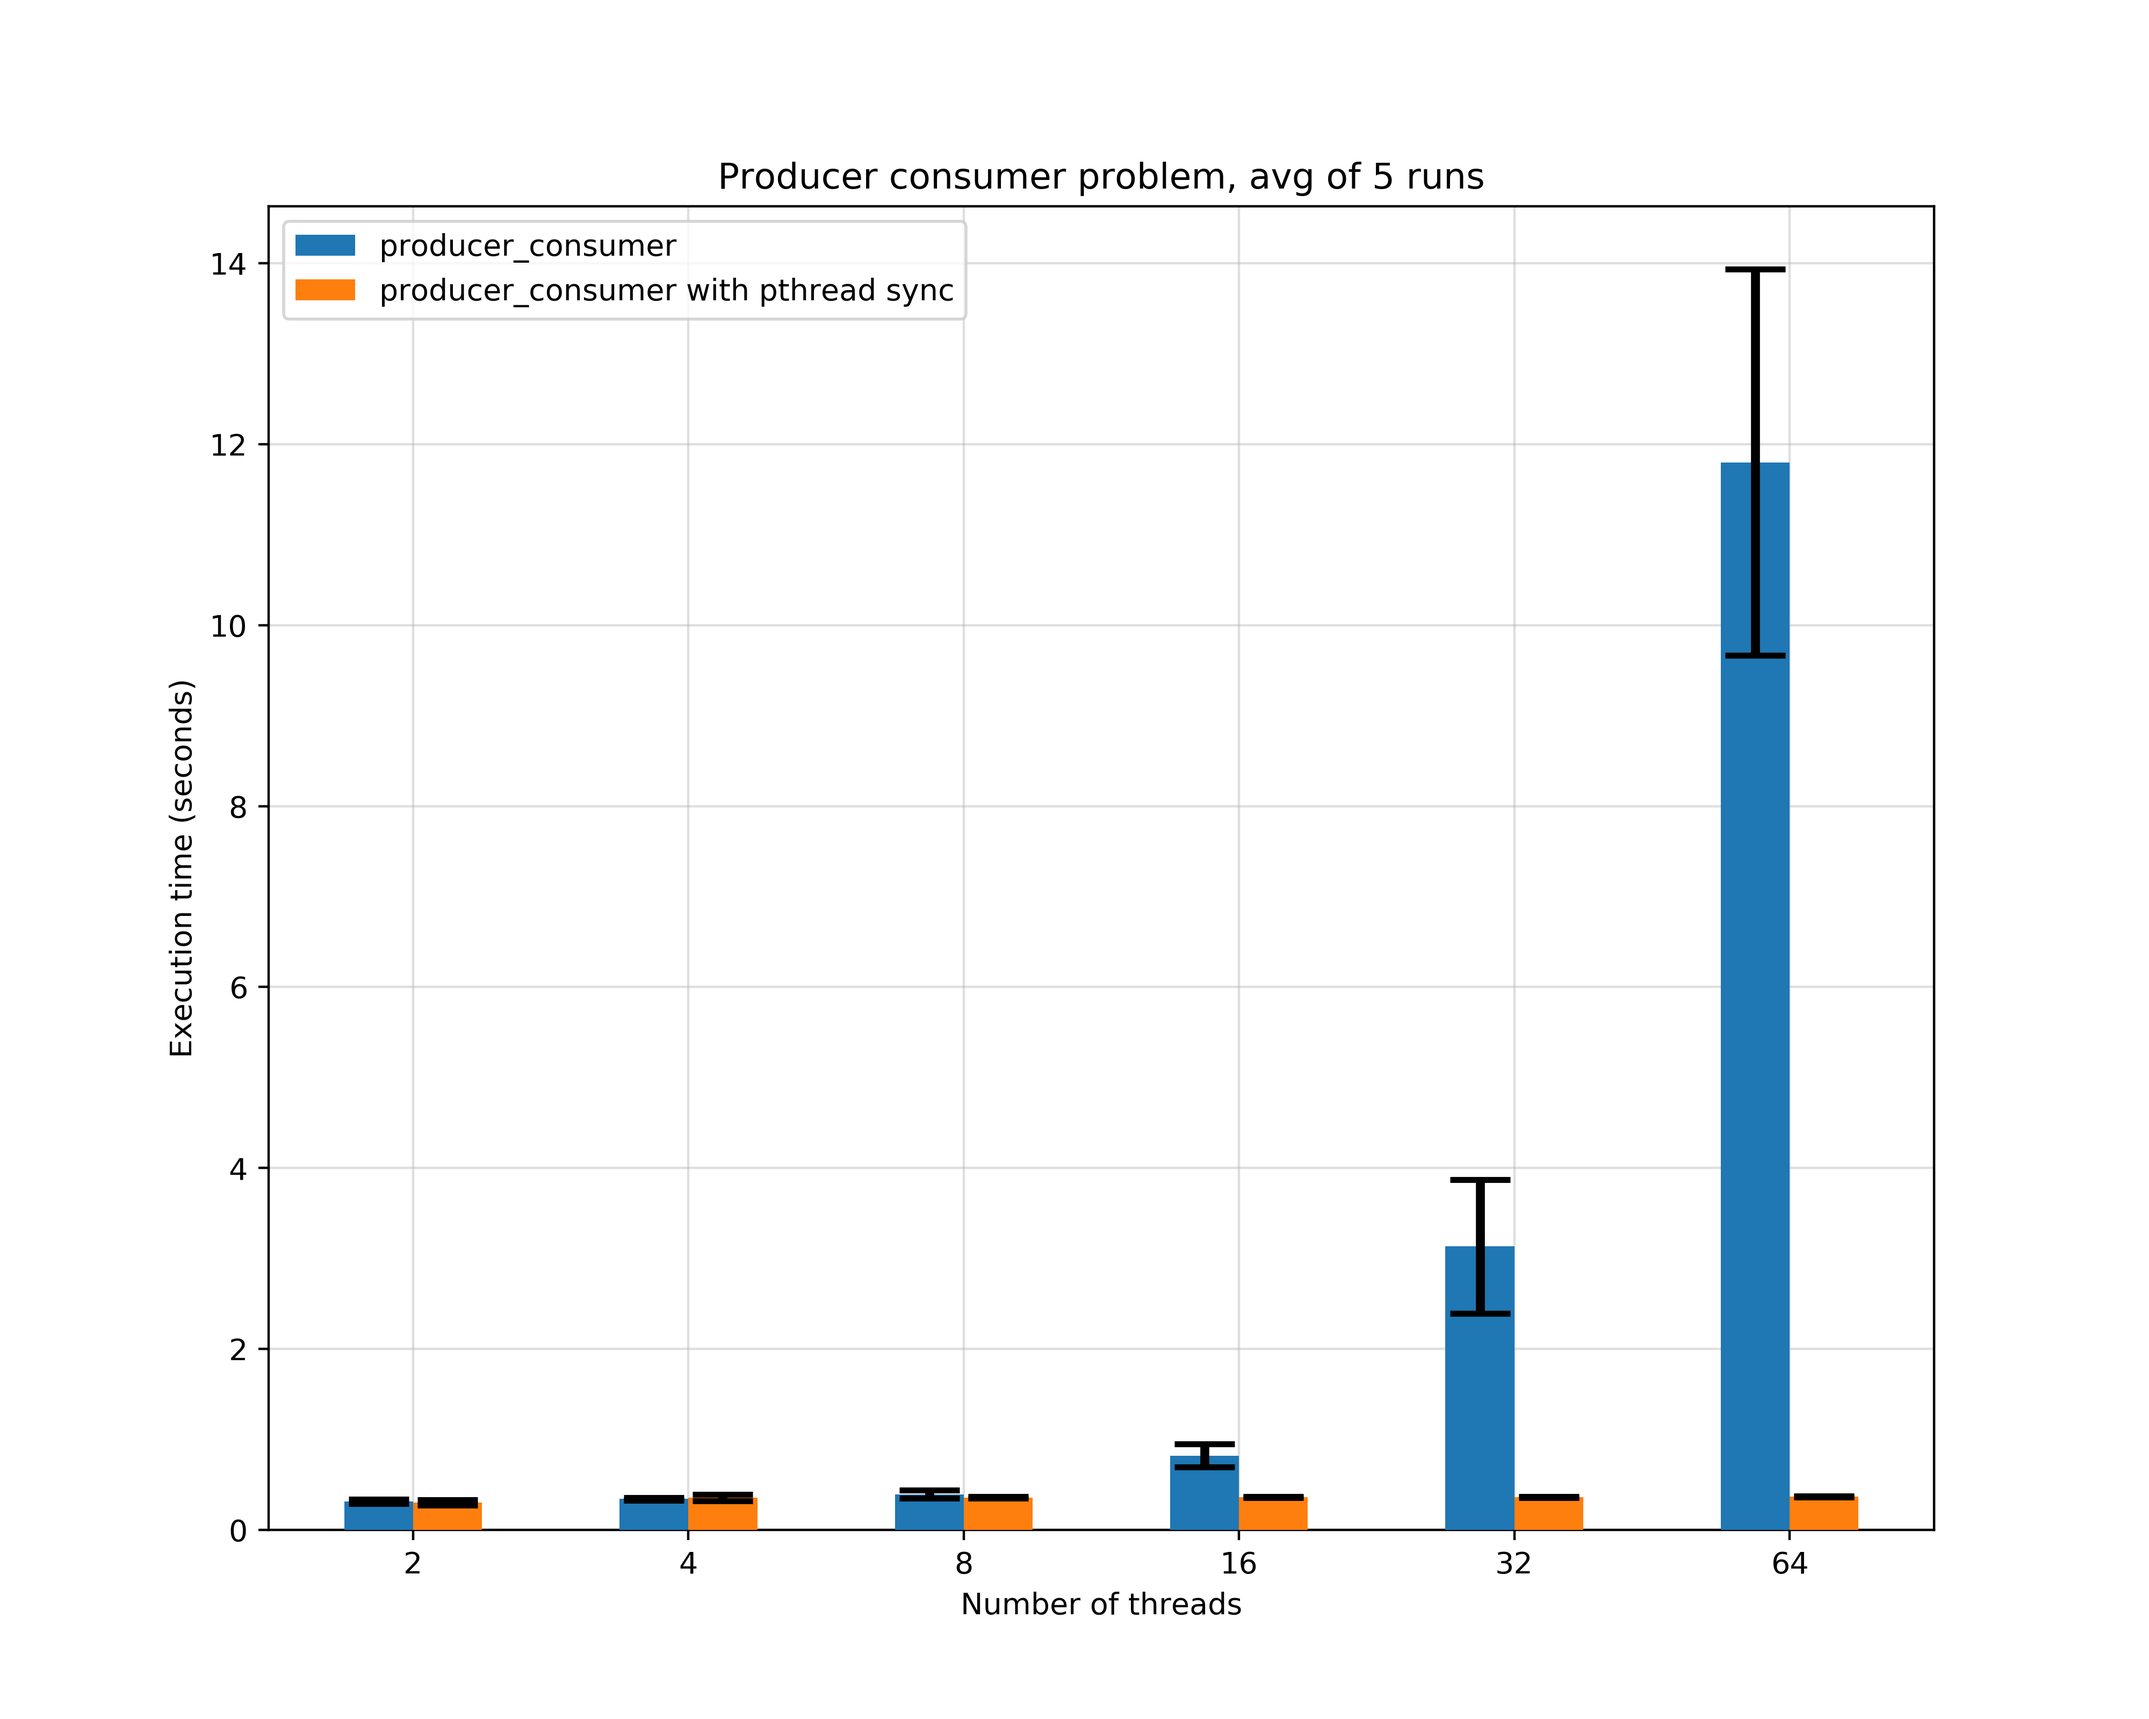
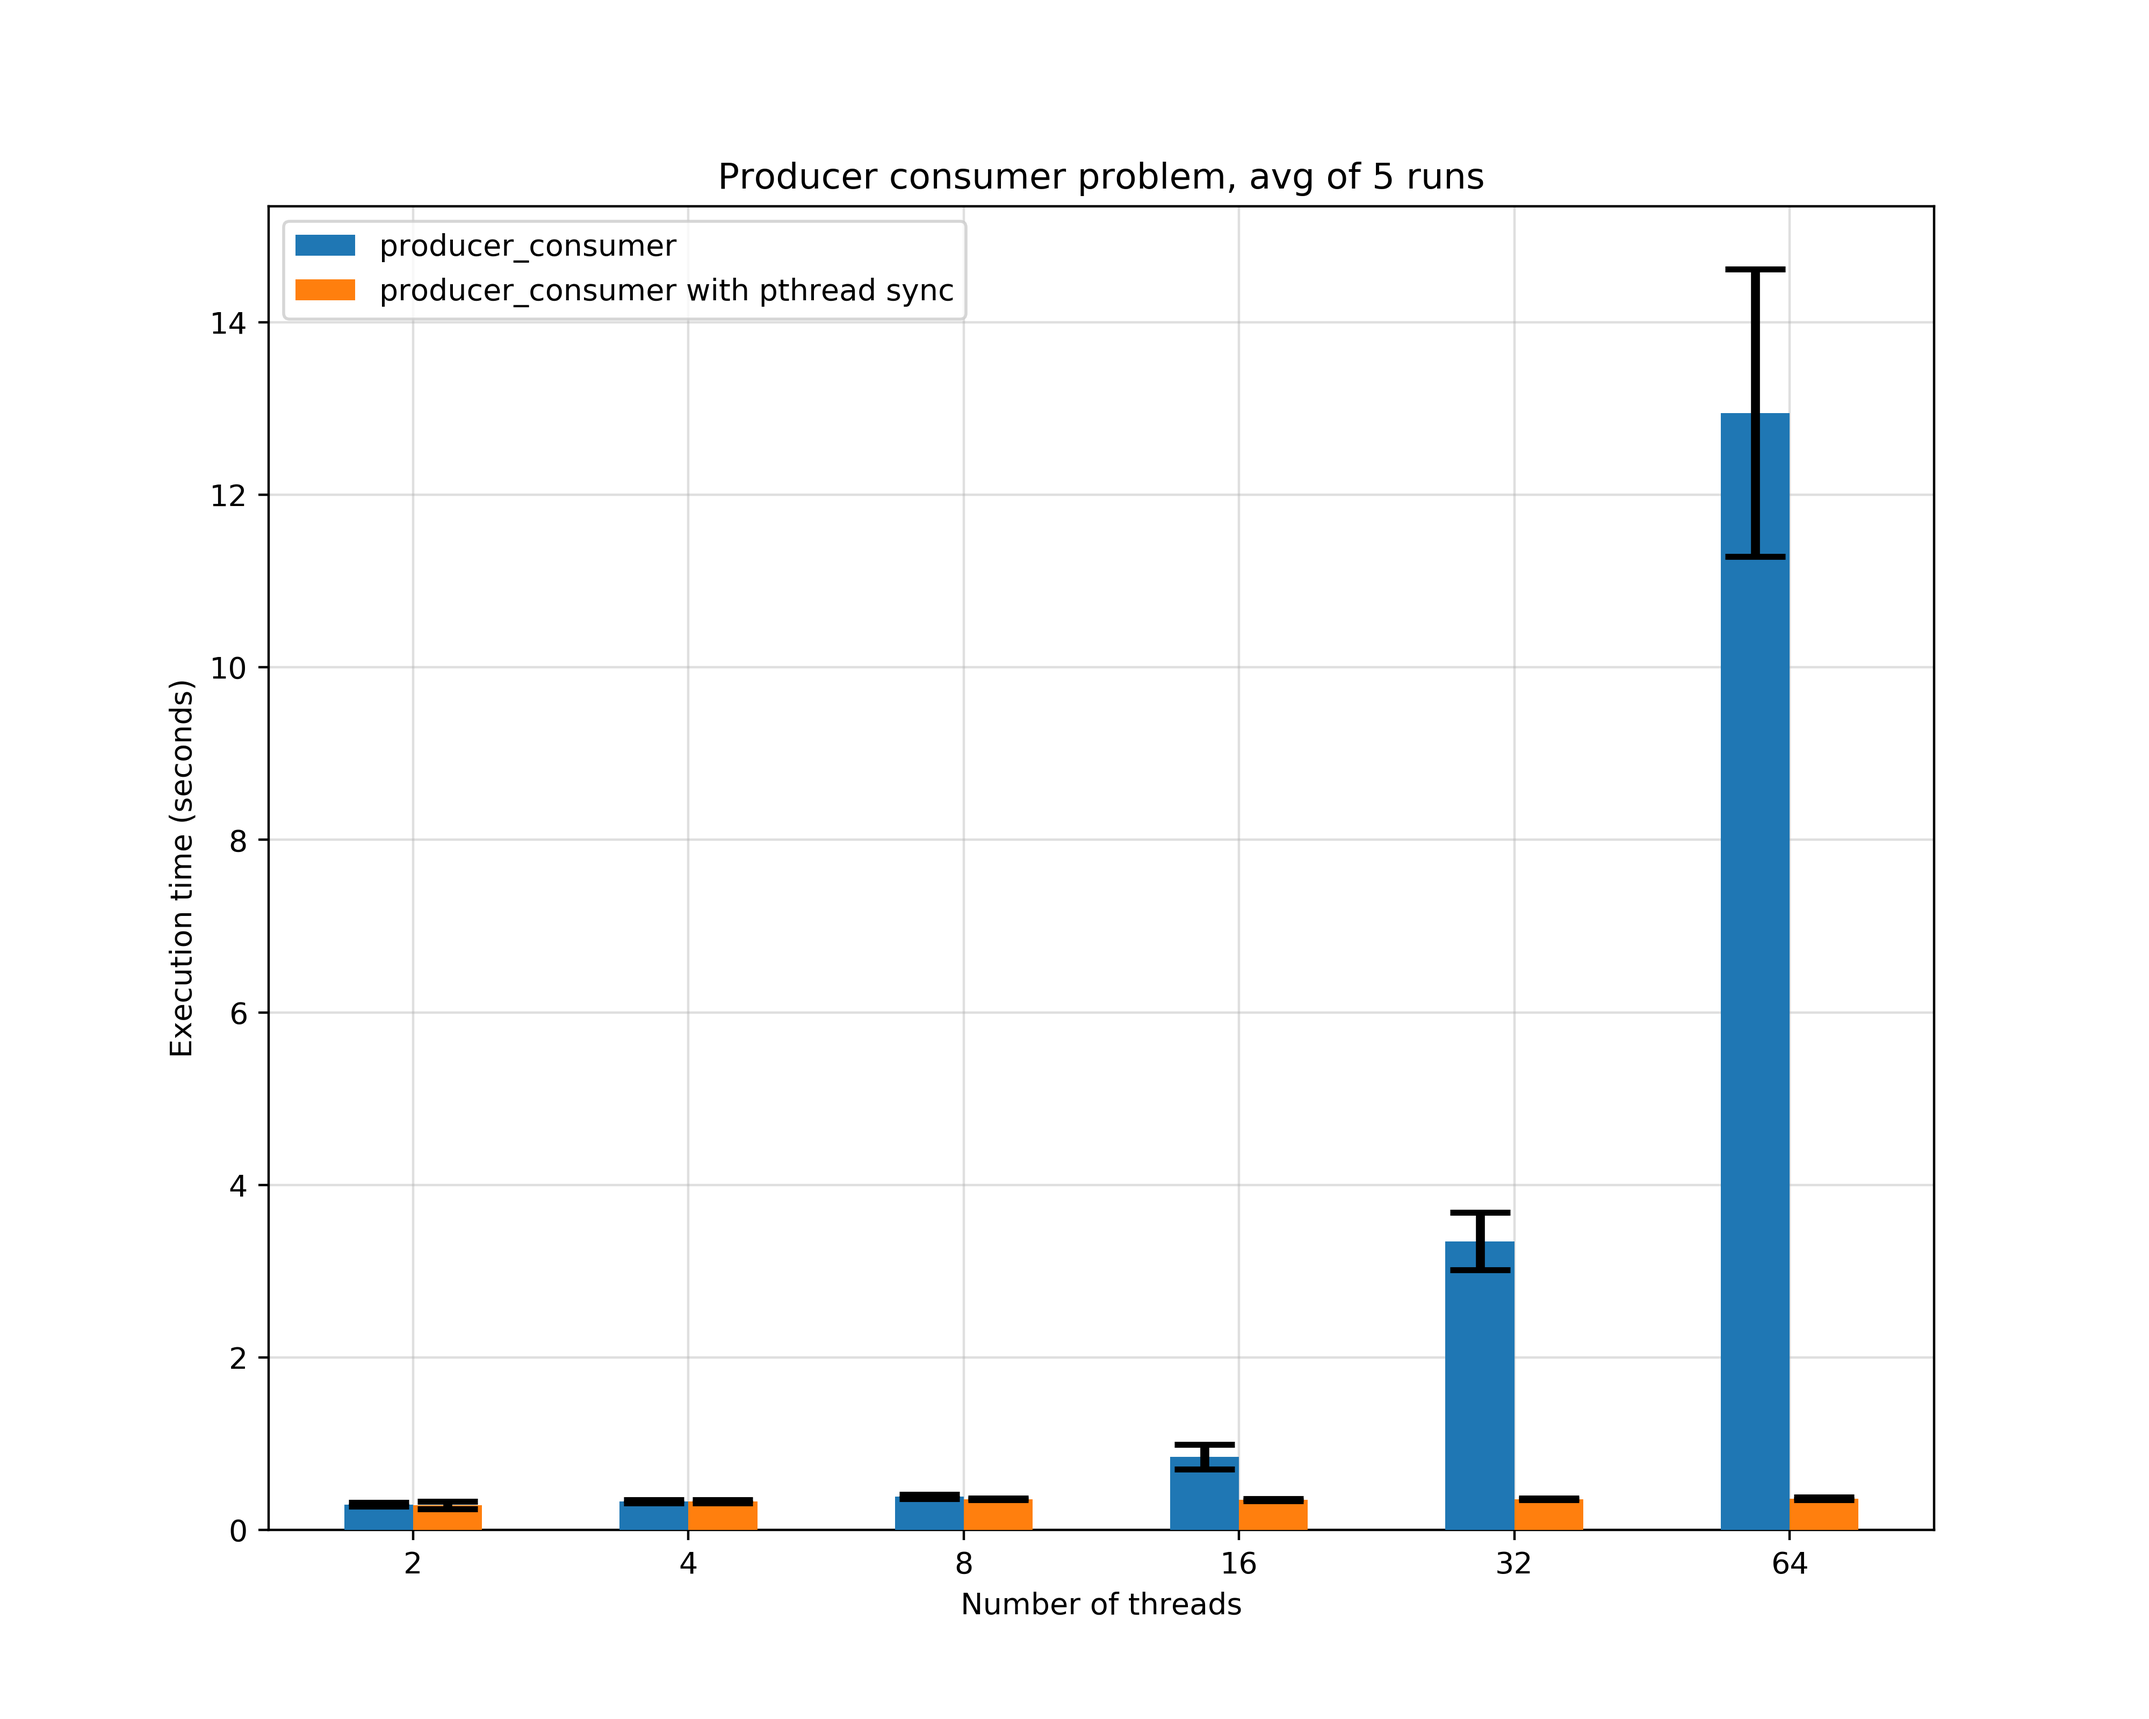
revert changes to producer consumer

diff --git a/src/producers_consumers.c b/src/producers_consumers.c
@@ -18,15 +18,13 @@ mutex_t *mutex;
 semaphore_t empty;
 semaphore_t full;
 
-int *buffer;
-
 volatile int produced_elements = 0;
 volatile int consumed_elements = 0;
 
-volatile int next_in = 0;
-volatile int next_out = 0;
-
 volatile int prod_cons_dump = 0;
+
+int *buffer;
+int *consumed_buffer;
 
 void producer_consumer(int n_prods, int n_cons, bool verbose, bool using_pthread_sync) {
     if (using_pthread_sync && verbose) {
@@ -57,6 +55,13 @@ void producer_consumer(int n_prods, int n_cons, bool verbose, bool using_pthread
         exit(EXIT_FAILURE);
     }
 
+    // shared buffer used to indicate which index of the normal shared buffer has a produced
+    // item ready to be consumed
+    consumed_buffer = calloc(BUFFER_SIZE, sizeof(int));
+    if (consumed_buffer == NULL) {
+        perror("Failed to malloc consumed buffer");
+        exit(EXIT_FAILURE);
+    }
 
     // PRODUCERS initialization ------
     prod_cons_args_t **prod_args = malloc(n_prods * sizeof(prod_cons_args_t *));
@@ -131,6 +136,7 @@ void producer_consumer(int n_prods, int n_cons, bool verbose, bool using_pthread
         printf("Joined all consumers\n");
     }
 
+    free(consumed_buffer);
     free(buffer);
 
     mutex_destroy(mutex);
@@ -169,16 +175,27 @@ void *producer(void *args) {
                 lock_test_and_test_and_set(mutex);
             }
                 // section critique
-                buffer[next_in] = arguments->id;
-                next_in = (next_in + 1) % BUFFER_SIZE;
-                produced_elements++;
 
-                
-                if (arguments->verbose) {
-                    printf("Producer #%d produced element index %d: %d\n", arguments->id, next_in, buffer[next_in]);
-                    printf("Produced elements: %d\n", produced_elements);
+                // search for the first free index where we can place our produced integer
+                // (which is just the thread id)
+                for (int j = 0; j < BUFFER_SIZE && produced_elements < CYCLES; j++) {
+                    if (consumed_buffer[j] == 0) {
+                        buffer[j] = arguments->id; // produce an integer
+                        produced_elements++;
+
+                        // this lets the consumer know that an element at index j is ready to be consumed
+                        consumed_buffer[j] = 1;
+
+                        if (arguments->verbose) {
+                            printf("Producer #%d produced element index %d: %d\n", arguments->id, j, buffer[j]);
+                            printf("Produced elements: %d\n", produced_elements);
+                        }
+
+                        // break after we produced an element,
+                        // otherwise this will continue to produce while the mutex is locked
+                        break;
+                    }
                 }
-
 
             if (arguments->using_pthread_sync) {
                 pthread_mutex_unlock(&pthread_mutex);
@@ -215,7 +232,6 @@ void *consumer(void *args) {
     while (true) {
         // same thing as producers, run until all the 8192 elements have been consumed
         if (consumed_elements < CYCLES) {
-
             if (arguments->using_pthread_sync) {
                 sem_wait(&pthread_full); // attente d'une place remplie
                 pthread_mutex_lock(&pthread_mutex);
@@ -225,22 +241,33 @@ void *consumer(void *args) {
             }
                 // section critique
 
+                // looping over consumed_buffer until an element is 1, meaning the element at the
+                // same index in buffer is ready to be consumed
+                for (int j = 0; j < BUFFER_SIZE && consumed_elements < CYCLES; j++) {
+                    if (consumed_buffer[j] == 1) {
 
-                    // we have nothing to do with the produced element, so we kinda just ignore it,
-                    // it will be overwritten by a producer
-                    // int element = buffer[j]; // this is the element produced
+                        // we have nothing to do with the produced element, so we kinda just ignore it,
+                        // it will be overwritten by a producer
+                        // int element = buffer[j]; // this is the element produced
 
-                    // reset index j to 0 since we "consumed" the element
-                    next_out = (next_out + 1) % BUFFER_SIZE;
-                    consumed_elements++;
+                        // reset index j to 0 since we "consumed" the element
+                        consumed_buffer[j] = 0;
+                        consumed_elements++;
 
-                    if (arguments->verbose) {
-                        printf("Consumer #%d consumed index %d : %d\n", arguments->id, next_out, buffer[next_out]);
-        
-                        printf("Consumed elements: %d\n", consumed_elements);
+                        if (arguments->verbose) {
+                            printf("Consumer #%d consumed index %d : %d\n", arguments->id, j, buffer[j]);
+                            printf("consumed_buffer : [");
+                            for (int loop = 0; loop < BUFFER_SIZE; loop++) {
+                                printf("%d ", consumed_buffer[loop]);
+                            }
+                            printf("]\n");
+                            printf("Consumed elements: %d\n", consumed_elements);
+                        }
+
+                        // break after we consumed an element, to avoid having this run too much
+                        break;
                     }
-
-        
+                }
 
             if (arguments->using_pthread_sync) {
                 pthread_mutex_unlock(&pthread_mutex);
